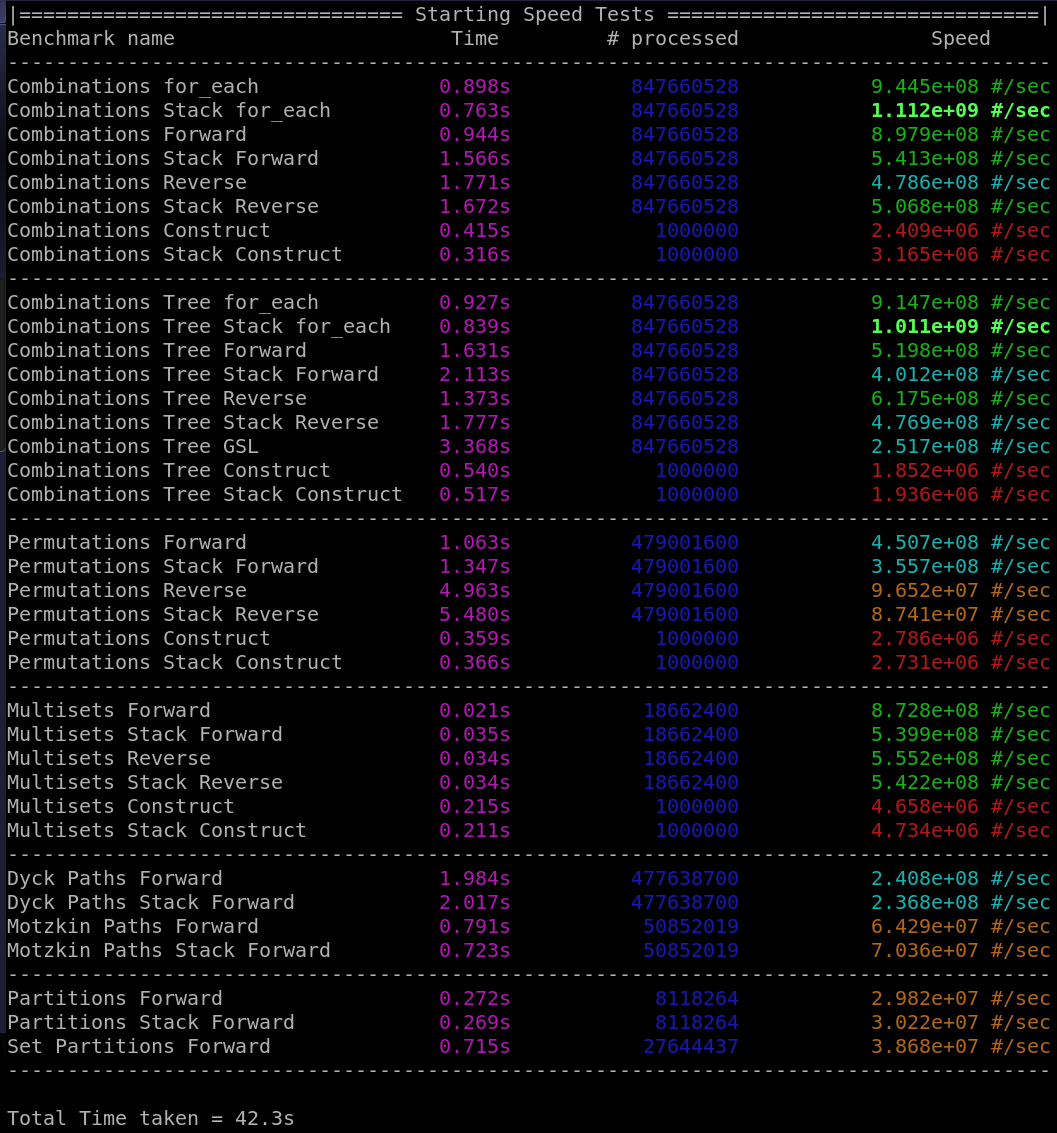
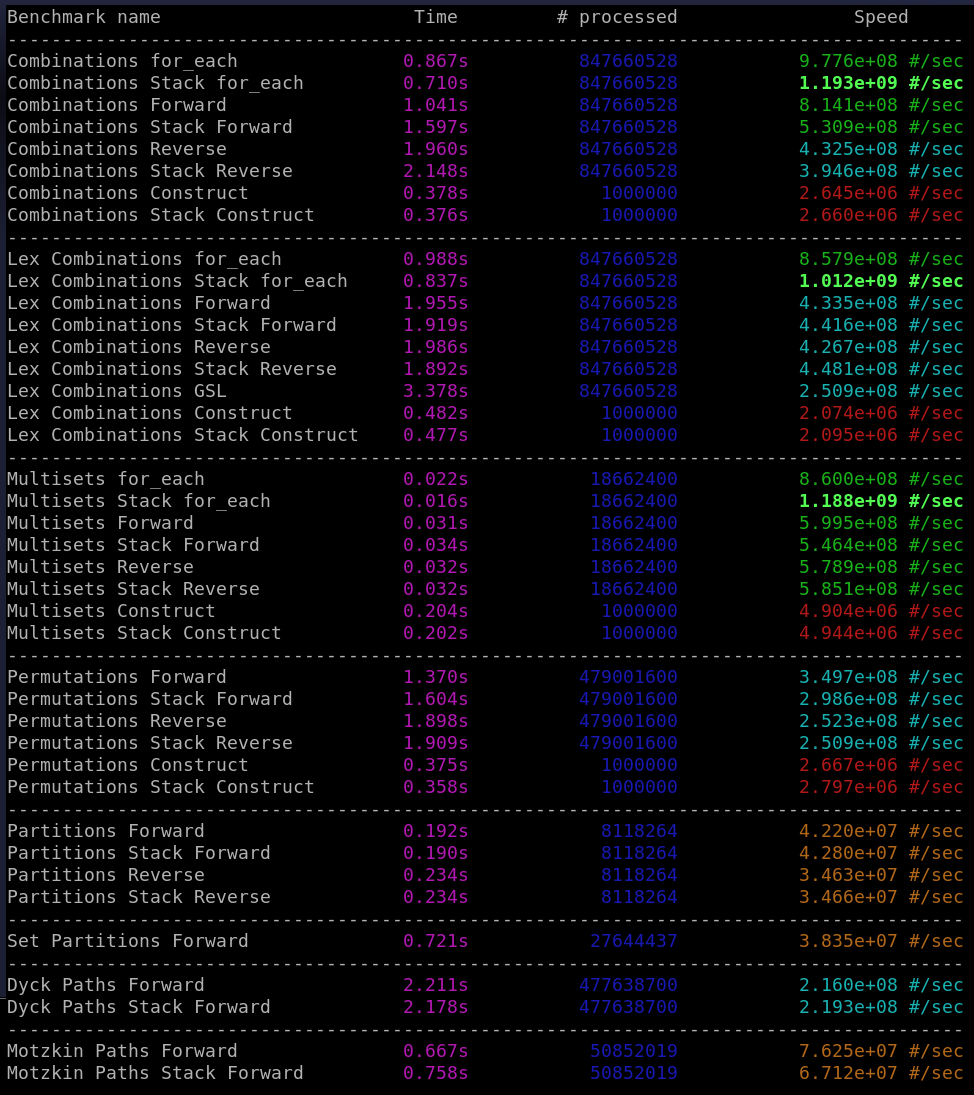
A few naming fixes, updated benchmarks, etc.

Changed region(s): [[0.0, 0.0, 1.0, 0.9936]]

diff --git a/benchmarks/combs.cpp b/benchmarks/combs.cpp
@@ -30,17 +30,17 @@ void bench_lex_combs()
     auto CT = discreture::lex_combinations(n, k);
     auto CTF = discreture::lex_combinations_stack(n, k);
 
-    cout << ProduceRowForEach("Combinations Tree", CT);
-    cout << ProduceRowForEach("Combinations Tree Stack", CTF);
-    cout << ProduceRowForward("Combinations Tree", CT);
-    cout << ProduceRowForward("Combinations Tree Stack", CTF);
-    cout << ProduceRowReverse("Combinations Tree", CT);
-    cout << ProduceRowReverse("Combinations Tree Stack", CTF);
+    cout << ProduceRowForEach("Lex Combinations", CT);
+    cout << ProduceRowForEach("Lex Combinations Stack", CTF);
+    cout << ProduceRowForward("Lex Combinations", CT);
+    cout << ProduceRowForward("Lex Combinations Stack", CTF);
+    cout << ProduceRowReverse("Lex Combinations", CT);
+    cout << ProduceRowReverse("Lex Combinations Stack", CTF);
 #ifdef TEST_GSL_COMBINATIONS
-    cout << BenchRow("Combinations Tree GSL",
+    cout << BenchRow("Lex Combinations GSL",
                      Benchmark([]() { BM_LexCombinationsGSL(n, k); }),
                      discreture::binomial<std::int64_t>(n, k));
 #endif
-    cout << ProduceRowConstruct("Combinations Tree", CT, construct);
-    cout << ProduceRowConstruct("Combinations Tree Stack", CTF, construct);
+    cout << ProduceRowConstruct("Lex Combinations", CT, construct);
+    cout << ProduceRowConstruct("Lex Combinations Stack", CTF, construct);
 }

diff --git a/benchmarks/parallel/parallel_benchmarks.cpp b/benchmarks/parallel/parallel_benchmarks.cpp
@@ -38,9 +38,21 @@ void parallel_multisets(int num_processors)
 //     cout << ProduceRowParallelForward("Permutations", P, num_processors);
 // }
 
-int main()
+int main(int argc, char *argv[])
 {
-    constexpr int num_processors = 8;
+    int num_processors = std::thread::hardware_concurrency();
+    if (argc > 1)
+    {
+        try
+        {
+            std::string np = argv[1];
+            num_processors = std::stoi(np);
+        } catch(...)
+        {
+            std::cerr << "Incorrect format for number of processors." << std::endl;
+            return 1;
+        }
+    }
     using std::cout;
     using std::endl;
 

diff --git a/tests/idxview_tests.cpp b/tests/idxview_tests.cpp
@@ -7,13 +7,13 @@
 #include <string>
 #include <vector>
 
-template <typename AggView, typename Container, typename IndexContainer>
-void check_indexed_view(const AggView& A,
+template <typename IdxView, typename Container, typename IndexContainer>
+void check_indexed_view(const IdxView& A,
                         const Container& T,
                         const IndexContainer& X)
 {
     ASSERT_EQ(A.size(), X.size());
-    for (int i = 0; i < A.size(); ++i)
+    for (auto i : indices(A))
     {
         ASSERT_EQ(A[i], T[X[i]]);
     }

diff --git a/tests/common_tests.hpp b/tests/common_tests.hpp
@@ -33,6 +33,13 @@ void test_reverse_iteration(const Container& C, CheckElement check_elem)
         --i;
     }
     ASSERT_EQ(i, -1);
+    i = 0;
+    for (auto&& c : reversed(reversed(C)))
+    {
+        ASSERT_EQ(c,C[i]);
+        ++i;
+    }
+    ASSERT_EQ(i,C.size());
 
     using elem_type = typename Container::value_type;
     std::set<elem_type> S(C.rbegin(), C.rend());

diff --git a/tests/main.cpp b/tests/main.cpp
@@ -1,5 +1,3 @@
-#include "Combinations.hpp"
-#include "TimeHelpers.hpp"
 #include <gtest/gtest.h>
 #include <iostream>
 

diff --git a/README.md b/README.md
@@ -24,7 +24,7 @@ using discreture::operator<<;
 
 int main()
 {
-	for (auto& x : discreture::combinations(5,3))
+	for (auto&& x : discreture::combinations(5,3))
 		std::cout << x << std::endl;
 	
 	return 0;
@@ -152,7 +152,7 @@ Some tests show that on different machines different types produce faster code, 
 
 ```c++
 auto X = discreture::combinations(30,10); //all subsets of size 10 of {0,1,2,...,29}
-for (auto& x : X) 
+for (auto&& x : X) 
 { 
 	// x is of type const vector<int>&, so anything that works with 
 	// const vector references also works on x, such as indexing, iterating, etc. x[3], etc.
@@ -219,7 +219,7 @@ using discreture::operator<<;
 
 int main()
 {
-    for (auto x : discreture::combinations("abcde"s,3))
+    for (auto&& x : discreture::combinations("abcde"s,3))
     {
         std::cout << x << std::endl;
     }
@@ -260,7 +260,7 @@ bool is_perfect_square(int n)
 int main()
 {
 	auto X = discreture::partitions(20,1,6);
-	for (auto& x : X)
+	for (auto&& x : X)
 	{
 		if (std::all_of(x.begin(), x.end(), is_perfect_square))
 			std::cout << x << std::endl;
@@ -305,7 +305,7 @@ int main()
 	
 		return (comb[k-1]%comb[k-2] == 0);
 	});
-	for (auto& t : T)
+	for (auto&& t : T)
 		std::cout << t << std::endl;
 }
 ```
@@ -335,7 +335,7 @@ So for example, the following code iterates over all combinations of size 3 of `
 
 int main()
 {
-	for (auto& x : discreture::combinations_stack(7,3))
+	for (auto&& x : discreture::combinations_stack(7,3))
 	{
 		//do stuff with x
 	}
@@ -421,7 +421,7 @@ for (auto it = combination_iterator<int>(n, n/2); it != end; ++it)
 
 Compare to the following (beautiful) code, using discreture:
 ```c++
-for (auto& x : combinations(n,n/2))
+for (auto&& x : combinations(n,n/2))
 {
 	DoNotOptimize(x);
 }
@@ -449,43 +449,11 @@ This comparison isn't very fair (C++ vs python). On the same system, iterating o
 
 ## Benchmarks
 
-The following benchmarks were done on a i7-5820K CPU @ 3.30GHz, using Manjaro Linux with gcc 7.2.1.
+The following benchmarks were done on a i7-5820K CPU @ 3.30GHz, using Manjaro Linux with gcc 8.1.1.
 
 The important column is speed. Higher is better. It means "how many (combinations/permutations/etc) were generated in one second" (basically, # processed / Time). Note the exponents.
 
 <img src="https://gitlab.com/miguelraggi/discreture/raw/master/benchmarks.png" width="900" alt="discreture::benchmarks" title="discreture::benchmarks">
-
-<!--|Benchmark name                  |   Time     |   # processed     |           Speed (with _stack)    | Speed (w/o _stack) |
-|-----|------|-----:|:------:|:------:|
-|Combinations | | | | |
-|Combinations for_each           | 0.827s        | 847660528           |1.025e+09 #/sec|        8.846e+08 #/sec|
-|Combinations (No iterator)      | 1.007s        | 847660528           |8.418e+08 #/sec|        7.444e+08 #/sec|
-|Combinations Forward            | 1.550s        | 847660528           |5.470e+08 #/sec|        8.470e+08 #/sec|
-|Combinations Reverse            | 1.717s        | 847660528           |4.937e+08 #/sec|        4.878e+08 #/sec|
-|Combinations Construct          | 0.104s        |    100000           |9.652e+05 #/sec|        1.021e+06 #/sec|
-|Lex Combinations   | | | | |
-|Lex Combinations for_each      | 0.934s        | 847660528           |9.079e+08 #/sec|        8.273e+08 #/sec|
-|Lex Combinations (No iterator) | 1.607s        | 847660528           |5.274e+08 #/sec|        5.320e+08 #/sec|
-|Lex Combinations Forward       | 1.979s        | 847660528           |4.283e+08 #/sec|        4.558e+08 #/sec|
-|Lex Combinations Reverse       | 1.854s        | 847660528           |4.572e+08 #/sec|        4.666e+08 #/sec|
-|Lex Combinations GSL           | 3.245s        | 847660528           |2.612e+08 #/sec|        2.377e+08 #/sec|
-|Lex Combinations Construct     | 0.105s        |    100000           |9.552e+05 #/sec|        9.504e+05 #/sec|
-|Permutations  | | | | |
-|Permutations Forward            | 1.242s        | 479001600           |3.856e+08 #/sec|        3.438e+08 #/sec|
-|Permutations Reverse            | 4.814s        | 479001600           |9.950e+07 #/sec|        9.956e+07 #/sec|
-|Permutations Construct          | 0.038s        |    100000           |2.651e+06 #/sec|        2.608e+06 #/sec|
-|Multisets  | | | | |
-|Multisets Forward               | 0.017s        |   9331200           |5.392e+08 #/sec|        7.906e+08 #/sec|
-|Multisets Reverse               | 0.020s        |   9331200           |4.563e+08 #/sec|        5.396e+08 #/sec|
-|Dyck Paths  | | | | |
-|Dyck Paths Forward              | 2.027s        | 477638700           |2.357e+08 #/sec|        2.222e+08 #/sec|
-|Motzkin Paths  | | | | |
-|Motzkin Paths Forward           | 0.925s        |  50852019           |5.500e+07 #/sec|        6.055e+07 #/sec|
-| Partitions  | | | | |
-|Partitions Forward              | 0.024s        |    966467           |4.034e+07 #/sec|        3.805e+07 #/sec|
-| Set Partitions  | | | | |
-|Set Partitions Forward          | 0.689s        |  27644437           |4.013e+07 #/sec|        4.395e+07 #/sec|-->
-
 
 **Noteworthy**: for_each can be really fast if using "stack" version for combinations (*i.e.* combinations_stack). Standard iteration was slower with _stack version on both combinations and combinations tree reverse for some unknown reason.
 
@@ -494,10 +462,26 @@ Run your own benchmarks (with colors!) by building with `cmake -DBUILD_BENCHMARK
 ./discreture_benchmarks
 ```
 
+### Parallel benchmarks
+
+Random access containers (currently: combinations, lex combinations, permutations and multisets) can be used easily in a multithreaded environment. Here are some benchmarks.
+
+<img src="https://gitlab.com/miguelraggi/discreture/raw/master/benchmarks_parallel.png" width="900" alt="discreture::benchmarks_parallel" title="discreture::benchmarks_parallel">
+
+Run your own benchmarks with 
+```sh
+./parallel_benchmarks
+```
+
+By default, this runs on all available CPUs. Optionally specify the number of threads like so:
+```sh
+./parallel_benchmarks 4
+```
+
 # Acknowledgements
  - Manuel Alejandro Romo de Vivar (manolo) for his work on dyck paths, motzkin paths, and his contribution to partition numbers.
 
- - Juho Lauri for suggestions on improving "tree" combination iterator and many interesting discussions on combinations. 
+ - Juho Lauri for suggestions on improving lexicographic combinations and many interesting discussions on combinations. 
 
  - César Benjamín García for suggesting the name "discreture".
  
